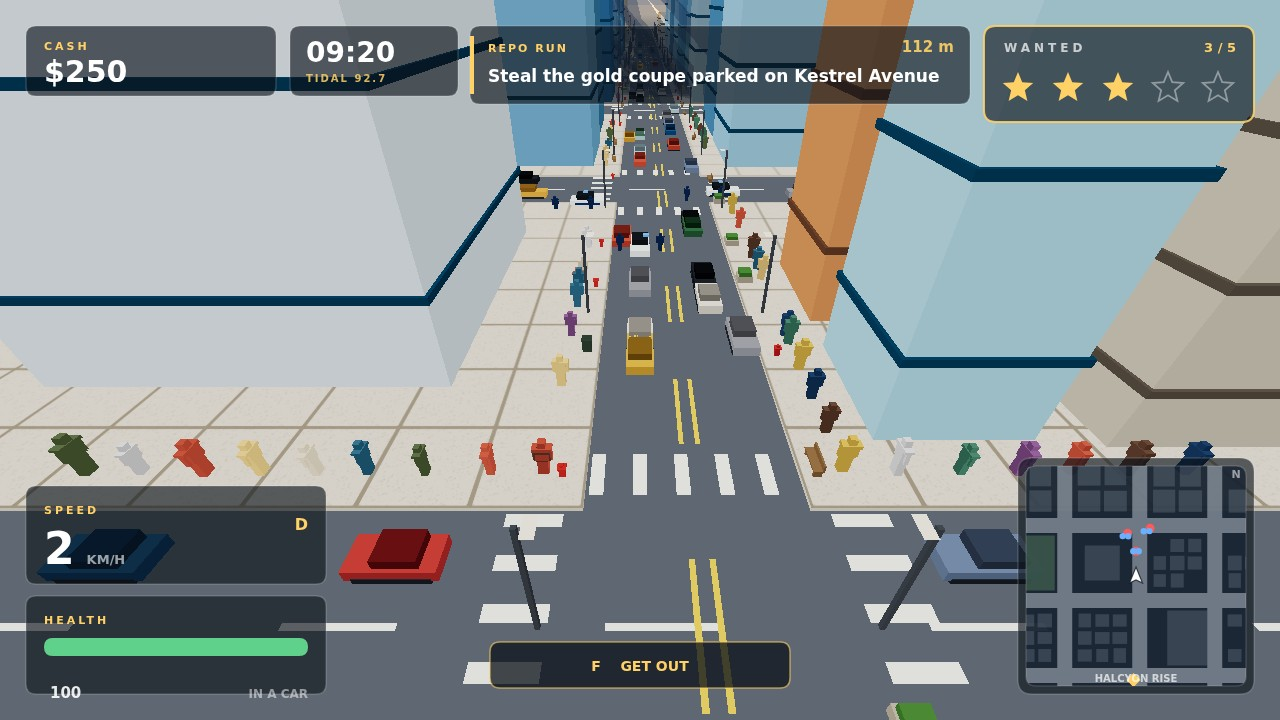
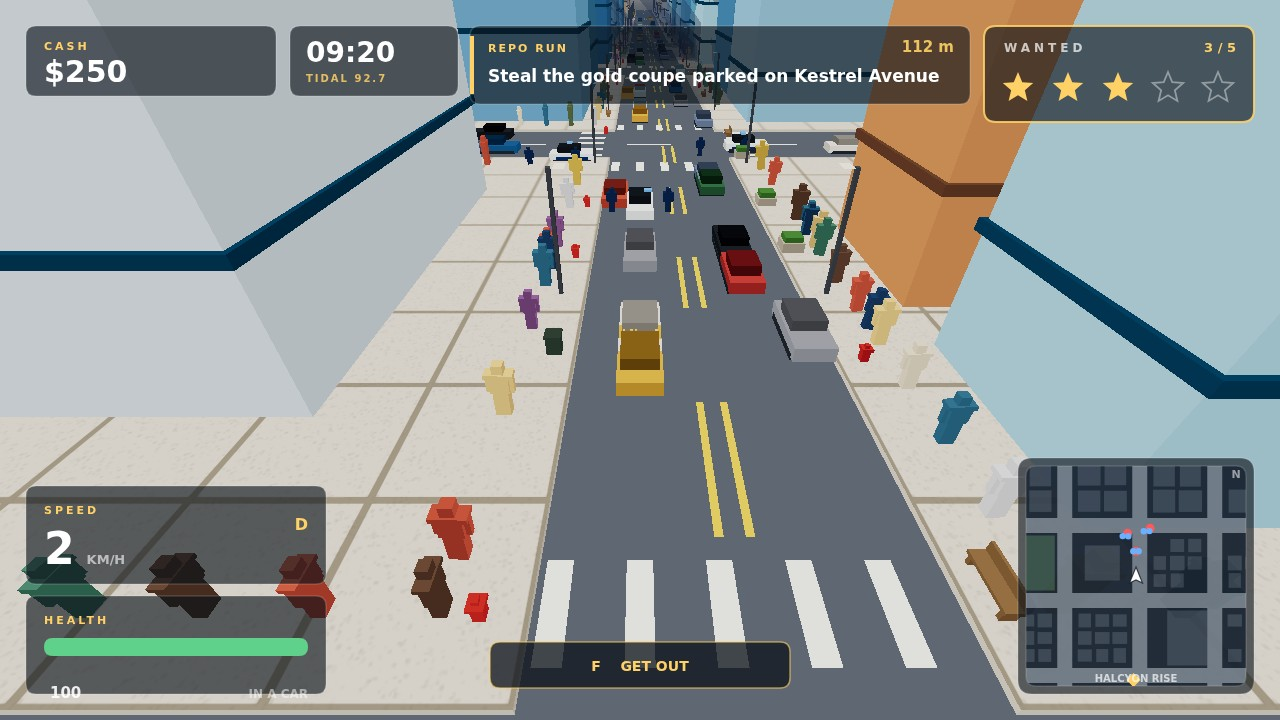
Bring the camera in so the player reads at third-person scale

diff --git a/game/src/config.js b/game/src/config.js
@@ -72,27 +72,36 @@ export const COUNTS = {
 };
 
 // The follow camera hangs `back` units behind the player and `height` above the road,
-// aimed at ground level under the player's feet (lookHeight 0). Those two numbers alone
-// fix the pitch: atan(22 / 30), about 36 degrees down, which is a high three-quarter
-// angle that still keeps the tower line and its long shadows in the frame.
+// aimed at `lookHeight` above the road under the player's feet. Those numbers fix the
+// pitch: atan((14 - 0.5) / 18), about 37 degrees down, which still keeps the tower line
+// and its long shadows in the frame.
 //
-// These numbers were picked by measurement, not by eye. Each candidate setup was loaded
+// These numbers were picked by measurement, not by eye. Six candidate setups were loaded
 // in a throwaway copy of the game, every instanced object was projected with
 // Vector3.project(camera), and the ones landing inside |ndc| <= 1 in front of the camera
-// were counted on the city scene. The old setup (fov 60, back 19.4, height 29.2) framed
-// only 33 traffic cars, 47 pedestrians and 8 parked vehicles, because its 57 degree pitch
-// and short back distance reached barely fifty units up the avenue. Widening the lens and
-// pulling the camera back and down filled the street: fov 72, back 30, height 22 measured
-// 237 cars, 146 pedestrians and 39 vehicles in frame, the best of the sweep, while the
-// still-steep-enough angle keeps the skyline readable. The near plane is short so the
-// figure never clips, and the far plane comfortably clears the water.
+// were counted on the city scene. The player's own on-screen height was measured the same
+// way, by projecting a point at the feet and one two units above it and converting the
+// NDC gap to pixels at 720. The counts quoted below are instanced-mesh counts, so one car
+// appears three times (body, cabin and trim): 234 car instances are the 78 cars of the
+// 84-car pool that fall inside the frame, and 39 parked instances are 13 of the 14 bays.
+// The previous setup (fov 72, back 30, height 22) measured 237 car instances and 146
+// pedestrians, but the figure stood only about 22 pixels tall, too small to read, so the
+// cover looked like an empty aerial view. The candidates traded that traffic against the
+// figure's size: back 22 / height 18 gave 204 car instances, 118 pedestrians and 28
+// pixels; fov 68, back 20 / height 16 gave 109 and 84 with 33 pixels; back 20 / height 17
+// with lookHeight 2 gave 234 and 142 with 30 pixels; fov 66, back 16 / height 13 gave 105
+// and 81 with 43 pixels. The chosen one, fov 72, back 18, height 14 and lookHeight 0.5,
+// keeps the street busy (234 car instances, 138 pedestrians, 39 parked instances) while
+// growing the player to about 36 pixels, half again as large as before, which reads as a
+// third-person game. The near plane is short so the figure never clips, and the far plane
+// comfortably clears the water.
 export const CAMERA = {
   fov: 72,
   near: 0.4,
   far: 2400,
-  back: 30.0,
-  height: 22.0,
-  lookHeight: 0.0,
+  back: 18.0,
+  height: 14.0,
+  lookHeight: 0.5,
   lookAhead: 0,
   ease: 8,
   minHeight: 2.4,
